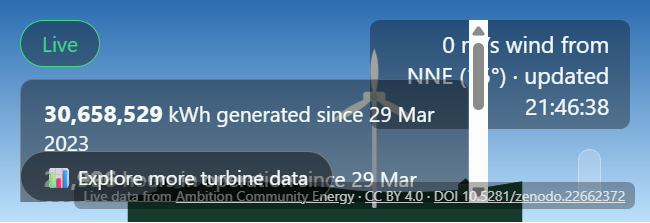
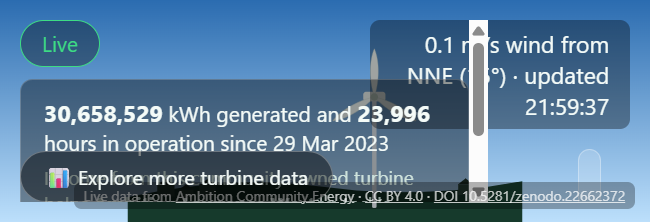
concept-5: merge energy/operating-hours into one sentence, drop separate availability line

diff --git a/solutions/concept-5-live-digital-twin-plus/app.js b/solutions/concept-5-live-digital-twin-plus/app.js
@@ -132,7 +132,6 @@ const rotorGroupEl = document.getElementById('rotor');
 const fallbackMessageEl = document.getElementById('fallback-message');
 const lifetimeEnergyEl = document.getElementById('lifetime-energy');
 const operatingHoursEl = document.getElementById('operating-hours');
-const availabilityTodayEl = document.getElementById('availability-today');
 
 const explorerToggleEl = document.getElementById('explorer-toggle');
 const explorerPanelEl = document.getElementById('explorer-panel');
@@ -439,12 +438,8 @@ async function loadAvailability() {
     if (Number.isFinite(value)) {
       availabilityValue = value;
       availabilityObservedAtMs = Number.isFinite(observed) ? observed / 1000 : Date.now();
-      availabilityTodayEl.textContent = oneDecimalFormatter.format(value);
-    } else {
-      availabilityTodayEl.textContent = '--';
     }
   } catch (error) {
-    availabilityTodayEl.textContent = '--';
     console.warn('Could not load daily availability:', error);
   }
   refreshExplorerLiveValue();

diff --git a/solutions/concept-5-live-digital-twin-plus/index.html b/solutions/concept-5-live-digital-twin-plus/index.html
@@ -56,12 +56,13 @@
       </div>
 
       <div class="info-panel">
-        <div class="info-stat"><strong id="lifetime-energy">--</strong> kWh generated since 29 Mar 2023</div>
-        <div class="info-stat"><strong id="operating-hours">--</strong> hours in operation since 29 Mar 2023</div>
-        <div class="info-stat"><strong id="availability-today">--</strong>% available today</div>
+        <p class="info-stat">
+          <strong id="lifetime-energy">--</strong> kWh generated and
+          <strong id="operating-hours">--</strong> hours in operation since 29 Mar 2023
+        </p>
         <p class="mission">
           Income from this community-owned turbine helps <strong>Ambition Lawrence Weston</strong>
-          tackle poverty and deprivation in the local area.
+          tackle poverty and deprivation locally.
           <a href="https://www.ambitionlw.org/" target="_blank" rel="noopener">Learn more at ambitionlw.org</a>.
         </p>
       </div>

diff --git a/solutions/concept-5-live-digital-twin-plus/styles.css b/solutions/concept-5-live-digital-twin-plus/styles.css
@@ -225,7 +225,7 @@ body {
 }
 
 .info-stat {
-  margin-bottom: 0.3em;
+  margin: 0 0 0.3em;
 }
 
 .info-stat strong {

diff --git a/solutions/concept-5-live-digital-twin-plus/README.md b/solutions/concept-5-live-digital-twin-plus/README.md
@@ -119,15 +119,16 @@ rather than just adding empty margin. The main overlay (freshness badge and
 info panel) was widened too (roughly 25% wider), so the lifetime-energy
 sentence wraps across fewer lines.
 
-### 6. Operating hours added to the info panel
+### 6. Operating hours merged into the info panel's main sentence
 
-The info panel now shows three stats instead of two: lifetime energy
-generated, **lifetime operating hours**, and today's availability. Operating
-hours was already being polled (as one of the "best-effort extra" fields
-feeding the explorer panel) — it's now also surfaced in the always-visible
-info panel, directly under the energy figure, since it's a community-value
-number in its own right ("how long has our turbine actually been running
-for?").
+Operating hours was already being polled (as one of the "best-effort extra"
+fields feeding the explorer panel). It's now also surfaced in the
+always-visible info panel — combined into a single sentence with lifetime
+energy ("30,658,529 kWh generated and 23,996 hours in operation since
+29 Mar 2023") rather than as a separate line, keeping the panel to two
+short paragraphs. The separate "today's availability" stat was folded back
+out of this panel in the same pass to keep it concise; it remains available
+as its own signal ("Daily availability") in the explorer panel.
 
 ### 7. Readout moved to the top-right
 
